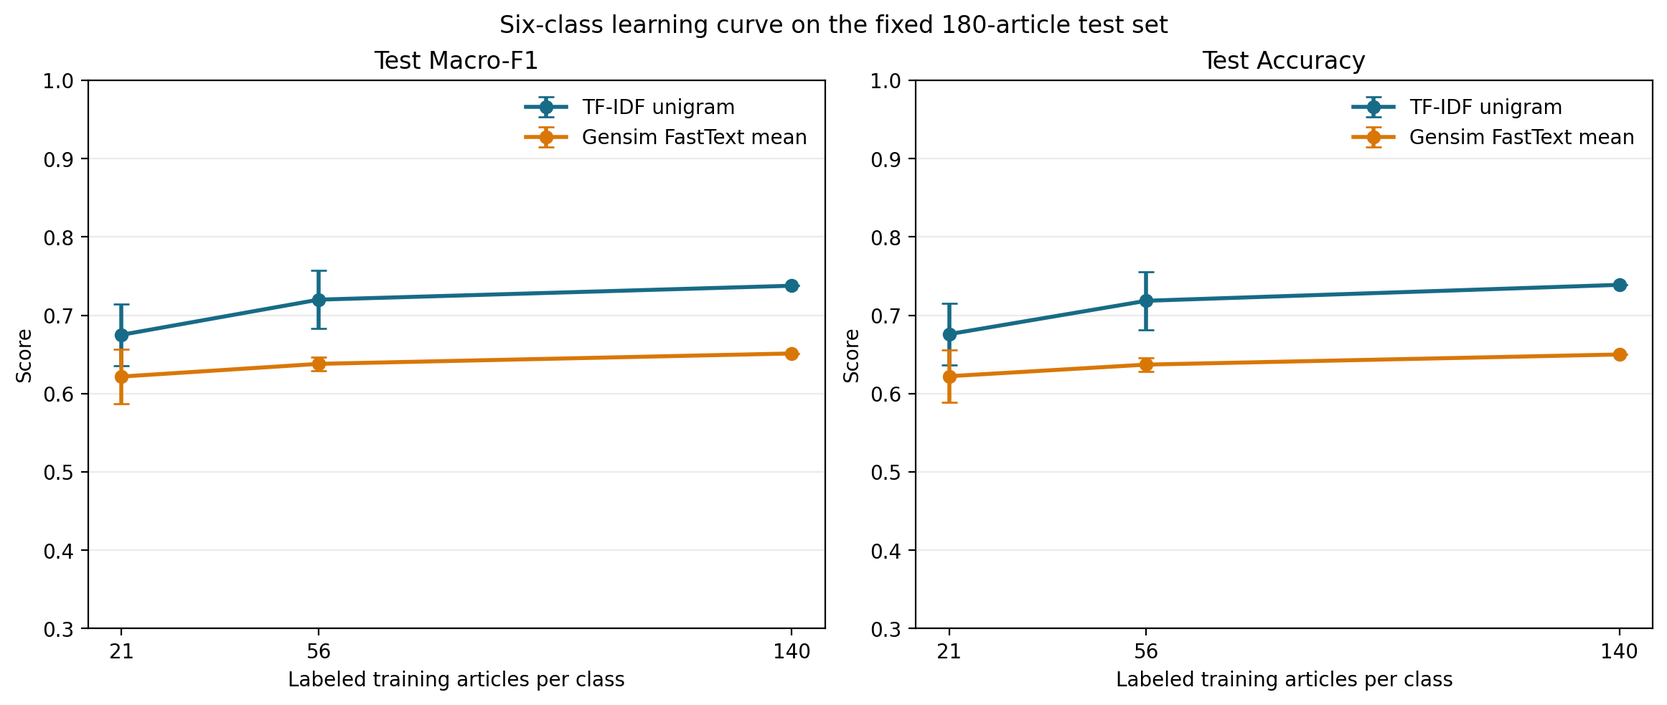
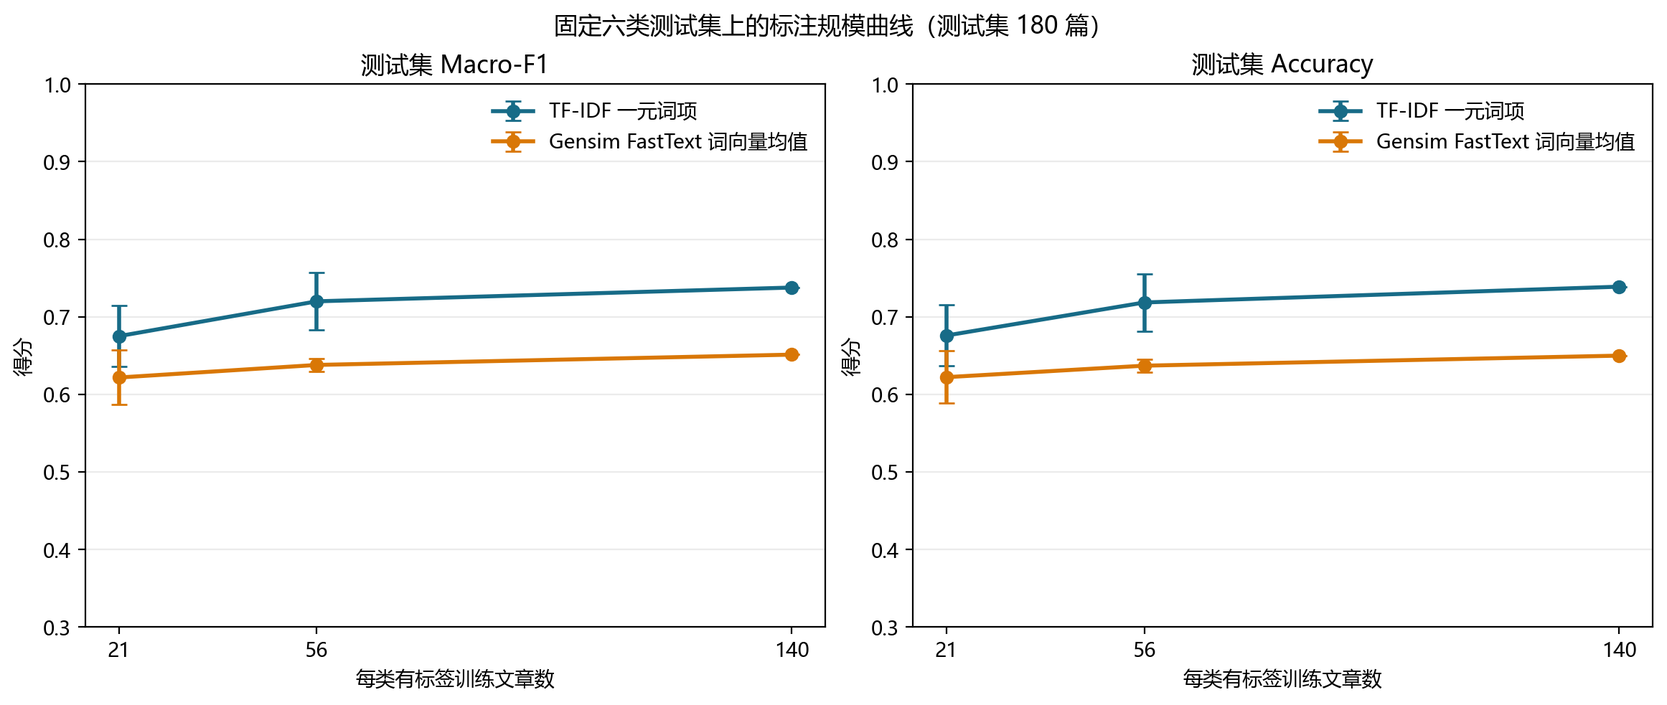
Rewrite FastText report with coverage and classification analysis

diff --git a/run_learning_curve.py b/run_learning_curve.py
@@ -230,20 +230,35 @@ def run_model(
 
 
 def make_figure(summary_rows: list[dict[str, Any]]) -> None:
+    from matplotlib import font_manager
     import matplotlib.pyplot as plt
-    import numpy as np
+
+    available_fonts = {font.name for font in font_manager.fontManager.ttflist}
+    font_families = (
+        "Microsoft YaHei",
+        "SimHei",
+        "SimSun",
+        "Noto Sans CJK SC",
+        "Source Han Sans SC",
+        "WenQuanYi Micro Hei",
+    )
+    for family in font_families:
+        if family in available_fonts:
+            plt.rcParams["font.sans-serif"] = [family]
+            break
+    plt.rcParams["axes.unicode_minus"] = False
 
     figure, axes = plt.subplots(1, 2, figsize=(11.5, 4.8), constrained_layout=True)
     method_names = {
-        "tfidf_unigram": "TF-IDF unigram",
-        "gensim_fasttext_mean": "Gensim FastText mean",
+        "tfidf_unigram": "TF-IDF 一元词项",
+        "gensim_fasttext_mean": "Gensim FastText 词向量均值",
     }
     method_colors = {"tfidf_unigram": "#176B87", "gensim_fasttext_mean": "#D97706"}
     fractions = [0.15, 0.40, 1.00]
     per_class = [TRAIN_PER_CLASS[fraction] for fraction in fractions]
     for axis, metric, title in (
-        (axes[0], "macro_f1", "Test Macro-F1"),
-        (axes[1], "accuracy", "Test Accuracy"),
+        (axes[0], "macro_f1", "测试集 Macro-F1"),
+        (axes[1], "accuracy", "测试集 Accuracy"),
     ):
         for method in method_names:
             rows = [row for row in summary_rows if row["feature_method"] == method]
@@ -255,13 +270,13 @@ def make_figure(summary_rows: list[dict[str, Any]]) -> None:
                 label=method_names[method], color=method_colors[method],
             )
         axis.set_title(title)
-        axis.set_xlabel("Labeled training articles per class")
-        axis.set_ylabel("Score")
+        axis.set_xlabel("每类有标签训练文章数")
+        axis.set_ylabel("得分")
         axis.set_xticks(per_class, [str(value) for value in per_class])
         axis.set_ylim(0.30, 1.00)
         axis.grid(axis="y", alpha=0.25)
         axis.legend(frameon=False)
-    figure.suptitle("Six-class learning curve on the fixed 180-article test set")
+    figure.suptitle("固定六类测试集上的标注规模曲线（测试集 180 篇）")
     path = RESULTS / "learning_curve_tfidf_vs_gensim_fasttext.png"
     figure.savefig(path, dpi=200, bbox_inches="tight")
     plt.close(figure)

diff --git a/实验报告.md b/实验报告.md
@@ -1,26 +1,28 @@
-# Gensim 新闻表示学习与 fastText 文本分类实验
+# 外部子词词向量能否提升小样本新闻分类？——基于 Gensim FastText 的弱标签实验
 
-本次实验用 LR-Sum 简体中文新闻正文训练 Gensim Word2Vec 和 FastText，并用教师提供的 1998 年上半年新闻文本构造固定弱标签样本，完成 2、4、6 类正文分类。比较方法包括 TF-IDF、两种冻结 Gensim 向量均值，以及官方 fastText 的随机和预训练初始化。每类从有效候选中按固定哈希顺序选取 200 篇，拆分为 140/30/30。六类测试中，官方 fastText 预训练初始化的 Accuracy / Macro-F1 为 **0.7611 / 0.7627**，随机初始化为 **0.7444 / 0.7428**。另在六类固定拆分上，以三个分层抽样种子比较 TF-IDF 与冻结 Gensim FastText 均值特征的标注训练规模曲线。上述分数描述当前固定弱标签实验，不能据此断言一种初始化或特征方法普遍更好。
+## 摘要
 
-本次实验的代码及相关说明可在该仓库中获取：[LLMandAppliedPractices-Gensim-FastText](https://github.com/stq1234/LLMandAppliedPractices-Gensim-FastText)。仓库保存本次使用的来源文本、固定样本、脚本、模型、预测记录、审计结果、图表和报告。
+本实验考察：在少量标注的新闻分类任务中，使用外部无标签语料训练的 Gensim FastText 子词表示，能否将更广的词表外覆盖转化为分类收益。词向量仅在 LR-Sum 简体中文训练语料上训练；分类语料为 1998 年上半年的课程新闻语料，类别由标题关键词规则产生。比较 TF-IDF、冻结 Word2Vec/FastText 向量均值，以及官方 fastText 随机或预训练初始化后的监督分类。六类训练正文中，Gensim 显式词表覆盖 25.19% 的词类型和 78.54% 的词频；但六类测试 Macro-F1 中，冻结 FastText 均值为 0.6513，低于 Word2Vec 均值的 0.6749 和 TF-IDF 的 0.7378。固定测试集上的三种训练子集抽样显示，TF-IDF 的 Macro-F1 从每类 21 篇时的 0.6751 升至 140 篇时的 0.7378，FastText 均值从 0.6218 升至 0.6513。官方 fastText 预训练初始化在六类任务达到 0.7627，但相对随机初始化的收益随类别任务而变。结果表明，可为表外词生成向量并不等同于获得适合分类的语义特征；本实验结论适用于当前标题关键词弱标签及固定测试样本。
 
-## 1. 数据来源、清理与样本构造
+## 1. 研究问题与动机
 
-### 1.1 词向量训练语料
+传统词向量通常为显式词表中的每个词保存独立表示，未见词无法直接查表。FastText 以字符 n-gram 组合词表示，使训练中未出现的词也可能通过已学习的子词向量得到表示 [2, 4]。这一机制解决的是向量可查询性；在下游分类中，子词片段是否携带与目标标签相关的信息，还取决于预训练语料、分词方式、文档表示和分类目标。
 
-表示学习使用 BLT Lab 的 [LR-Sum 数据集](https://huggingface.co/datasets/bltlab/lr-sum)，取简体中文 `cmn_s` 配置的 `train` split，固定 revision 为 `deb2e73ce53e42ceda31297a991afa138ee665a8`。原始 Parquet 有 483 篇记录；正文经 Unicode NFKC 规范化、控制字符清理、空白规整和正文指纹去重后，保留 **482 篇、359,302 个 jieba token**。模型仅读取正文 `text`，不使用标题、摘要、URL、数据集标签或验证/测试 split。
+本实验围绕一个问题展开：在每类只有 21–140 篇有标签训练文章的条件下，LR-Sum 上训练的 Gensim FastText 是否优于词级 Word2Vec 及 TF-IDF？同时，将冻结词向量均值与以同一词向量初始化、再由标签监督训练的官方 fastText 区分开来。前者检验固定外部表示作为文档特征的表现；后者检验包含监督参数更新和词 bigram 的分类器在本数据上的结果。两者结构不同，差异不能单独归因于预训练初始化。
 
-数据集卡标注 [CC BY 4.0](https://creativecommons.org/licenses/by/4.0/)。本实验对正文执行了规范化、去重和分词处理。数据集归属 LR-Sum / BLT Lab；相关论文为 Palen-Michel 与 Lignos（2023）的 [LR-Sum: Summarization for Less-Resourced Languages](https://aclanthology.org/2023.findings-acl.427/)。原文件来源、固定摘要、许可和处理说明见 `data/SOURCE.md`。
+## 2. 数据与标签构造
 
-### 1.2 1998 年上半年教师语料
+### 2.1 外部表示学习语料
 
-分类语料来自用户提供的 `1998-上半年-带音(1).rar`，包含 1998 年 1—6 月六个文本文件。仓库保存从该 RAR 提取的文本归档 `data/source/teacher_1998_h1_gb18030.tar.xz`，并记录原始压缩包与各成员的 SHA-256，供复现时校验。文本记录 ID 采用 `YYYYMMDD-page-article-segment` 格式。逐条记录均以 GB18030 严格解码；不替换乱码字节，也不把它们映射为未知词。5 条无法解码记录涉及 `19980323-09-005`、`19980430-03-005`、`19980507-04-007` 三篇文章，因此整篇排除。各错误行的文件、行号、字节偏移、记录 ID 与错误字节见 `data/teacher_decode_errors.csv`。
+词向量训练数据取自 LR-Sum 的简体中文 `cmn_s` 配置，仅使用 `train` split 的正文 `text`。LR-Sum 是面向多种语言摘要研究的新闻数据集 [1]。原始 483 篇记录经 Unicode 规范化、正文清理和重复文本去重后保留 482 篇，共 359,302 个 jieba 分词 token。训练过程不读取标题、摘要、数据集标签或验证、测试分片。来源数据采用 CC BY 4.0 许可。
 
-解析得到 **18,631 个文章 ID 组**。同一 ID 下正文相同的重复记录共去除 6 行；有一个段号 `19980127-09-001-032` 出现不同正文，按规则整篇排除并将冲突摘要写入 `data/teacher_conflicting_records.csv`。随后剔除 1 篇缺少标题段的文章、1,864 篇空正文，并在拆分前去除 40 篇规范化后与先前文章正文相同的重复文章，剩余 **16,722 篇有效且正文唯一的文章**。处理去掉了 95,058 个拼音花括号注音和纯标点 token，保留源文件已有的词边界；标题只用于弱标签，正文分段按段号顺序连接。数据及来源核验细节见 `data/corpus_stats.json` 和 `data/SOURCE.md`。
+### 2.2 分类语料与弱标签
 
-标签不是人工标注的主题金标准，而是由标题段精确命中 `data/selection_rules.json` 中的分类关键词生成。单篇标题可命中同类多个词，但命中多个类别时排除；正文少于 80 个源词的文章也排除。类别候选数如下，最少的体育类仍有 277 篇，因此能按预定数量选取 200 篇，而不需要缩小目标样本数。
+分类文章来自课程提供的 1998 年 1–6 月《人民日报》新闻语料。文本按 GB18030 严格解码，依文章 ID 合并段落并清理正文；解码失败、正文缺失、重复或记录冲突的文章按既定规则排除，最终得到 16,722 篇正文唯一的有效文章。
 
-| 类别 | 有效候选 | 选取 | 训练 | 验证 | 测试 |
+标题按预先设定的关键词表生成六类弱标签：体育、经济、文化、国际、政治和社会。标题未命中类别、命中多个类别，或正文短于 80 个源词的文章不进入候选集。每类候选中按固定哈希顺序各取 200 篇，再按类别拆分为训练 140 篇、验证 30 篇、测试 30 篇。表 1 给出各类候选与样本规模；图 1 展示总体筛选及六类拆分。
+
+| 类别 | 单类关键词候选 | 选取 | 训练 | 验证 | 测试 |
 |---|---:|---:|---:|---:|---:|
 | 体育 | 277 | 200 | 140 | 30 | 30 |
 | 经济 | 1,132 | 200 | 140 | 30 | 30 |
@@ -29,134 +31,104 @@
 | 政治 | 556 | 200 | 140 | 30 | 30 |
 | 社会 | 797 | 200 | 140 | 30 | 30 |
 
-选样及拆分通过独立的固定盐值 SHA-256 排序，结果保存为 `data/frozen_split.csv`。2 类任务取体育、经济；4 类加入文化、国际；6 类再加入政治、社会，三项任务使用嵌套样本，训练/验证/测试总数分别为 280/60/60、560/120/120、840/180/180。分类器输入标题之外的正文前 500 个源词；同一正文指纹不会跨越训练、验证与测试集。弱标签规则、关键词命中和每篇筛选状态保存在候选表与筛选审计表中，便于复查。
+**表 1.** 六类弱标签候选及固定样本划分。候选数是标题命中恰好一个类别关键词组、且正文满足长度要求的文章数。
 
 ![教师语料筛选规模与六类固定样本拆分](results/data_split_counts.png)
 
-图 1：左图展示文章 ID 组、通过严格解码与正文去重的文章、单类别关键词候选和最终选样数；右图展示六类各 200 篇样本的 140/30/30 拆分。类别平衡由选样过程建立，不代表原始语料中的类别比例。
+**图 1.** 左图为文章 ID 组、有效且去重后的文章、单类关键词候选及最终选样规模；右图为六类各 200 篇样本的训练、验证与测试数量。类别平衡来自选样规则，不代表原始新闻语料的类别比例。
 
-### 1.3 语料隔离
+2、4、6 类任务分别使用体育和经济，加入文化和国际，再加入政治和社会，形成嵌套分类任务。分类器只读取正文前 500 个源词，不输入标题。测试集中 173/180 篇正文含有其标签对应的至少一个标题关键词；训练集和验证集相应比例分别为 798/840 和 172/180。此重合反映了弱标签规则与分类输入之间的直接词面线索，后续分数应按这一标签构造理解。
 
-Gensim 表示学习仅使用 LR-Sum 正文，教师语料只用于分类和来源交叉核查。规范化后，LR-Sum 正文与所有有效教师正文之间的全文匹配及前 200 字符前缀匹配均为 0；验证/测试文章的这两类匹配也均为 0。这个检查针对字符完全相同或前缀相同，不排除语义近重复。分类语料沿用源文件的分词边界，LR-Sum 使用 jieba 分词；两个来源的领域与年代也不同，因此嵌入词表覆盖率是解释结果时的重要背景。
+## 3. 方法与实验设置
 
-## 2. 表示学习和分类方法
+### 3.1 词表示
 
-### 2.1 Gensim 表示学习
+Word2Vec 与 Gensim FastText 均采用 Skip-gram、100 维向量、窗口 5、`min_count=3`、10 轮训练、单 worker 和随机种子 42。FastText 使用长度 2–4 的字符 n-gram 和 100,000 个哈希桶。两个模型均在上述 LR-Sum 正文上训练。FastText 对显式词表外的词，可根据其字符 n-gram 生成向量；该机制保证的是可能得到一个数值表示，不是该表示对当前分类标签有效 [2, 4]。
 
-Word2Vec 和 Gensim FastText 都使用 Skip-gram、100 维向量、窗口 5、`min_count=3`、10 轮、单 worker 和随机种子 42。FastText 使用长度 2—4 的字符 n-gram 和 100,000 个哈希桶。两个模型均有 **11,171 个显式词项**。本次分类刷新复用了与 LR-Sum 来源摘要及训练参数核验一致的模型检查点，没有重新训练词向量。
+### 3.2 分类方法
 
-### 2.2 五种监督方法
-
-| 方法 | 特征和训练方式 |
+| 方法 | 文档特征与分类训练 |
 |---|---|
-| TF-IDF + LR | unigram、sublinear TF-IDF，训练逻辑回归 |
-| Word2Vec mean + LR | 对正文词向量取均值，StandardScaler 只在训练集拟合，再训练逻辑回归 |
-| Gensim FastText mean + LR | 对正文词向量取均值，表外词可通过字符 n-gram 合成向量，再使用相同逻辑回归流程 |
-| 官方 fastText，随机初始化 | `fasttext.train_supervised` 联合训练文本表示和标签分类器 |
-| 官方 fastText，预训练初始化 | 使用 Gensim FastText 导出的训练词表 `.vec` 初始化，再进行相同监督训练 |
+| TF-IDF + LR | 正文 unigram、sublinear TF-IDF；训练逻辑回归。 |
+| Word2Vec 均值 + LR | 正文词向量逐词求均值；仅在训练集拟合 StandardScaler，再训练逻辑回归。 |
+| Gensim FastText 均值 + LR | 同样对词向量取均值并使用训练集拟合的 StandardScaler 与逻辑回归；可为部分表外词生成向量。 |
+| 官方 fastText，随机初始化 | `train_supervised` 训练 softmax 分类器及文本表示，使用词 unigram 与 bigram。 |
+| 官方 fastText，预训练初始化 | 用 Gensim FastText 导出的显式词向量初始化，再用相同监督设置更新分类器和表示。 |
 
-逻辑回归使用 `C=1`、`max_iter=2000`。官方 fastText 使用 softmax、100 维、学习率 0.5、`wordNgrams=2`、`minn=maxn=0`、单线程、bucket 100,000、seed 42。监督分类开启词 bigram，但关闭字符子词；这与 Gensim FastText 训练阶段的字符 n-gram 不是同一特征。预训练 `.vec` 仅导出六类训练正文词表与 Gensim FastText 显式词表的交集，共 **5,950 词**，不含词表外向量、验证/测试专有词或字符桶参数；导出的初始向量仍会在监督训练中更新。
+两种均值特征的逻辑回归使用 `C=1`、`max_iter=2000`。官方 fastText 使用 100 维表示、学习率 0.5、`wordNgrams=2`，关闭字符 n-gram，并使用单线程、随机种子 42。预训练 `.vec` 包含六类完整训练正文词表与 Gensim 显式词表的交集，共 5,950 个词；不含合成的表外向量。该共享导出文件用于 2、4、6 类任务，因此较小任务可读取来自其他类别六类训练文章的词项向量，但不含验证或测试文本词项。fastText 监督分类采用词与 n-gram 特征的线性分类框架 [3]。
 
-在六类监督训练正文中共有 23,617 个不同词、251,003 次词出现。两个 Gensim 显式词表覆盖 5,950 种词、197,143 次出现，类型覆盖率为 **25.19%**，词频加权覆盖率为 **78.54%**。这个数只衡量显式词表覆盖；Gensim FastText 可为部分表外词合成向量。由于源语料分词体系与年代、主题不同，覆盖率不能单独说明向量的分类价值。
+### 3.3 评价设计
 
-供三个任务共用的 `.vec` 是根据**六类任务的全局训练正文词表**一次性导出，而非为 2、4、6 类分别导出。因此，2 类或 4 类使用的共享初始化文件可能含有该子任务训练子集之外、但属于六类全局训练集的词项；不含任何验证集或测试集专有词。这是共享表示词表的比较设定，解释子任务初始化时应保留这一点。
+主实验在每类 140/30/30 的训练、验证、测试划分上评估 2、4、6 类任务。指标为 Accuracy 和 Macro-F1；Macro-F1 对类别等权。官方 fastText 的训练轮数在 25、100、250 中按验证集 Macro-F1 选择，平局取较小值。两种初始化在 2 类任务选择 25 轮，在 4 类和 6 类任务选择 100 轮。每个主实验任务使用一个固定拆分。
 
-### 2.3 官方 fastText 选轮数
+学习曲线只比较 TF-IDF unigram 与冻结 Gensim FastText 均值特征。六类训练集中的 140 篇/类在三个抽样种子（17、29、43）下分别抽样，取每类 21、56、140 篇，即总训练量 126、336、840 篇；每次都在同一组 180 篇测试文章上评价。汇总值为三个抽样结果的均值和样本标准差。100% 条件的三次运行使用相同 840 篇训练文章，因此该处标准差为零，并非三份独立全量样本。
 
-每个任务和两种初始化均比较预设的 25、100、250 epoch。只按验证集 Macro-F1 选取，平局取较小轮数；测试集没有用于选参。18 条候选结果见 `results/fasttext_validation_curve.csv`。
+实现版本为 Python 3.12.7、Gensim 4.3.3、fasttext-wheel 0.9.2、NumPy 1.26.4 和 scikit-learn 1.5.1。
 
-| 类别数 | 随机初始化 epoch | 验证 Macro-F1 | 预训练初始化 epoch | 验证 Macro-F1 |
-|---:|---:|---:|---:|---:|
-| 2 | 25 | 0.9833 | 25 | 0.9666 |
-| 4 | 100 | 0.8379 | 100 | 0.8576 |
-| 6 | 100 | 0.7765 | 100 | 0.7639 |
+## 4. 实验结果
 
-2 类的两种初始化在三个候选轮数下各自都出现验证分数平局，故选 25；4 类预训练和 6 类预训练在 100、250 轮时分数相同，故按规则选 100。
+### 4.1 显式词表覆盖与分类表现
 
-## 3. 测试集结果
+六类训练正文共有 23,617 个不同词、251,003 次词出现。Gensim Word2Vec 和 FastText 的显式词表均包含其中 5,950 种词，对应类型覆盖率 25.19%、词频加权覆盖率 78.54%。FastText 的子词机制可为部分词表外词生成表示，但这项覆盖能力没有带来均值分类特征的性能优势。
 
-表中每格为 **Accuracy / Macro-F1**。Accuracy 是样本预测正确比例；Macro-F1 对每类 F1 等权平均。2、4、6 类任务的测试样本数依次为 60、120、180 篇。
+表 2 汇总三个测试集的结果，图 2 展示各任务中两项指标的变化。六类任务中，Gensim FastText 均值的 Macro-F1 为 0.6513，比 Word2Vec 均值低 0.0236、比 TF-IDF 低 0.0865。官方 fastText 预训练初始化在六类达到 0.7627，随机初始化为 0.7428；但预训练初始化在四类任务略低于随机初始化（0.8418 对 0.8510）。因此，这组结果不支持“预训练初始化在各类数设置下都更好”的结论。
 
-| 方法 | 2 类 | 4 类 | 6 类 |
-|---|---|---|---|
+| 方法 | 2 类 Accuracy / Macro-F1 | 4 类 Accuracy / Macro-F1 | 6 类 Accuracy / Macro-F1 |
+|---|---:|---:|---:|
 | TF-IDF + LR | 0.9333 / 0.9330 | 0.8500 / 0.8491 | 0.7389 / 0.7378 |
-| Word2Vec mean + LR | 0.8833 / 0.8833 | 0.7250 / 0.7250 | 0.6722 / 0.6749 |
-| Gensim FastText mean + LR | 0.9333 / 0.9333 | 0.7750 / 0.7753 | 0.6500 / 0.6513 |
+| Word2Vec 均值 + LR | 0.8833 / 0.8833 | 0.7250 / 0.7250 | 0.6722 / 0.6749 |
+| Gensim FastText 均值 + LR | 0.9333 / 0.9333 | 0.7750 / 0.7753 | 0.6500 / 0.6513 |
 | 官方 fastText，随机初始化 | 0.9667 / 0.9666 | 0.8500 / 0.8510 | 0.7444 / 0.7428 |
 | 官方 fastText，预训练初始化 | 1.0000 / 1.0000 | 0.8417 / 0.8418 | 0.7611 / 0.7627 |
 
+**表 2.** 固定测试集上的 Accuracy 与 Macro-F1。测试样本数依次为 60、120、180 篇。
+
 ![各分类方法测试集 Accuracy 与 Macro-F1](results/classification_comparison.png)
 
-图 2：对三个嵌套分类任务，展示按验证集选定 epoch 后各方法的测试集 Macro-F1 与 Accuracy。柱值来自保存的逐篇预测。
+**图 2.** 2、4、6 类任务中，各方法按验证集选轮数后在测试集上的 Macro-F1 与 Accuracy。两项指标均由保存的逐篇预测计算。
 
-从该固定拆分看，2 类预训练初始化 60 篇全部预测正确；4 类随机初始化略高于预训练初始化；6 类预训练初始化的 Macro-F1 比随机初始化高约 0.0199。Gensim 均值方法在六类任务上低于 TF-IDF。官方 fastText 使用监督更新并加入词 bigram，因此它与冻结词向量均值分类器之间同时存在特征表示和训练目标差异，不能把分数差异归因于单一因素。预训练初始化的表现随任务类别数而变，当前结果不支持笼统地说预训练必然优于或劣于随机初始化。
+官方 fastText 预训练初始化在二类测试集的 60 篇文章上全数正确；四类任务中随机初始化略高，六类任务中预训练初始化高约 0.0199 Macro-F1。类别任务的样本数与类别组成也随设置改变，因而三项结果反映的是嵌套任务上的整体表现，不能视为只改变类别数的严格因果对照。官方 fastText 与冻结均值方法的训练目标、特征和更新方式不同，二者分数差异也不能归结为字符子词这一项因素。
 
-### 3.1 标注训练规模对照
+### 4.2 标注训练规模
 
-为观察同一弱标签任务对标注样本量的敏感程度，使用六类任务的既有训练拆分和**同一组 180 篇固定测试文章**。每个类别在训练集中的 140 篇文章按三个抽样种子（17、29、43）分别随机排序，取前 21、56 或 140 篇，形成每类 15%、40% 和 100% 的嵌套分层样本；总训练量分别为 126、336 和 840 篇。小样本只从原训练集抽取，测试样本不变，验证集不参与训练或选参。两种特征使用同一 Logistic Regression（`C=1`、`max_iter=2000`、`random_state=42`），不针对训练量另行调参。
+图 3 和表 3 展示固定测试集上的学习曲线。三个训练规模下，TF-IDF 的 Macro-F1 均高于 Gensim FastText 均值；从每类 21 篇增至 140 篇时，TF-IDF 均值增加 0.0627，FastText 均值增加 0.0295。更多标注样本提高了两种方法的平均成绩，但未缩小两者在全量训练条件下的差距。
 
-TF-IDF 使用原分类基线的一元词项和 sublinear TF。向量方法使用已保存的 Gensim FastText 100 维检查点，对每篇正文的源分词逐词取向量并求均值，再仅以当前抽样训练集拟合 `StandardScaler`。词向量保持冻结；对检查点词表外的词，Gensim FastText 可用字符 n-gram 桶合成向量。LR-Sum 的固定 `train` split（482 篇、359,302 个 jieba token）是不带标签、与教师分类语料分离的预训练来源；它没有使用教师训练、验证或测试文本进行词向量训练。现有审计中的教师语料全文及前 200 字符匹配数均为 0。已有监督 FastText `.vec` 导出按六类完整训练词表筛选，但本次学习曲线直接读取固定 Gensim 检查点，不读取该 `.vec` 文件。
+| 每类训练文章（总量） | TF-IDF Macro-F1 | TF-IDF Accuracy | FastText 均值 Macro-F1 | FastText 均值 Accuracy |
+|---:|---:|---:|---:|---:|
+| 21（126） | 0.6751 ± 0.0392 | 0.6759 ± 0.0394 | 0.6218 ± 0.0352 | 0.6222 ± 0.0338 |
+| 56（336） | 0.7200 ± 0.0373 | 0.7185 ± 0.0370 | 0.6380 ± 0.0086 | 0.6370 ± 0.0085 |
+| 140（840） | 0.7378 ± 0.0000 | 0.7389 ± 0.0000 | 0.6513 ± 0.0000 | 0.6500 ± 0.0000 |
 
-表中为三个抽样种子的测试集均值及样本标准差（`mean ± SD`）。完整 100% 训练集在三个种子下是同一组 840 篇文章，因此指标标准差为 0，不能视为三份独立全量样本。耗时统计单次特征构造、训练集缩放（向量均值方法）、分类器拟合和固定测试集预测；不包括一次性加载检查点（0.23 秒）、此前训练 FastText 检查点的 374.46 秒（第 6 节记录）以及文件写入和绘图。
-
-| 每类训练文章（比例） | 特征方法 | 测试 Macro-F1（均值 ± SD） | 测试 Accuracy（均值 ± SD） | 单次流水线秒数（均值 ± SD） |
-|---:|---|---:|---:|---:|
-| 21（15%） | TF-IDF unigram | 0.6751 ± 0.0392 | 0.6759 ± 0.0394 | 0.09 ± 0.04 |
-| 21（15%） | Gensim FastText 向量均值 | 0.6218 ± 0.0352 | 0.6222 ± 0.0338 | 0.24 ± 0.01 |
-| 56（40%） | TF-IDF unigram | 0.7200 ± 0.0373 | 0.7185 ± 0.0370 | 0.15 ± 0.01 |
-| 56（40%） | Gensim FastText 向量均值 | 0.6380 ± 0.0086 | 0.6370 ± 0.0085 | 0.39 ± 0.01 |
-| 140（100%） | TF-IDF unigram | 0.7378 ± 0.0000 | 0.7389 ± 0.0000 | 0.32 ± 0.03 |
-| 140（100%） | Gensim FastText 向量均值 | 0.6513 ± 0.0000 | 0.6500 ± 0.0000 | 0.77 ± 0.02 |
+**表 3.** 三个训练子集种子上的测试指标均值 ± 样本标准差；测试集始终为同一组 180 篇文章。
 
 ![六类固定测试集上的标注规模曲线](results/learning_curve_tfidf_vs_gensim_fasttext.png)
 
-图 3：测试 Macro-F1 与 Accuracy 的种子均值；误差线为三个训练子集的样本标准差。横轴是每类有标签训练文章数，固定测试集为每类 30 篇。
+**图 3.** 每类训练文章数与测试 Macro-F1、Accuracy。误差线表示三个训练子集抽样结果的样本标准差；全量训练条件使用同一训练集，故标准差为零。
 
-在本次固定测试集上，TF-IDF 的 Macro-F1 在三种训练规模的三个抽样种子中都高于向量均值特征。两种方法从 15% 增至 40% 时均值均上升；40% 到 100% 时，TF-IDF 均值继续上升，而 FastText 均值也有上升但幅度较小。该结果只描述这六类标题关键词弱标签和单一固定测试集，不能推广到人工金标准或其他语料。每个预测样本、训练子集成员、逐次指标与耗时分别保存在 `results/learning_curve_predictions.csv`、`results/learning_curve_samples.csv` 和 `results/learning_curve_metrics.csv`；按规模汇总的均值与标准差在 `results/learning_curve_summary.csv`。元数据记录拆分、检查点和来源摘要及一致性检查。100% 条件下的结果与原六类 TF-IDF 和 Gensim FastText 均值基线相符。
+### 4.3 错误分布
 
-## 4. 向量诊断与六类错误
-
-### 4.1 近邻和表外词查询
-
-下列近邻来自本次复用的 Gensim 检查点，仅用于观察向量可查询性和分布，不是语义基准测试。
-
-| 查询词 | Word2Vec 示例 | Gensim FastText 示例 |
-|---|---|---|
-| 经济 | 增长 0.6207；复苏 0.6205 | 经济舱 0.8915；经济繁荣 0.8493 |
-| 银行 | 荷兰 0.9107；金属 0.9055 | 投资银行 0.9112；投行 0.8803 |
-| 足球 | 不在显式词表，无法查询 | 可合成向量；近邻含“墨尔本”0.9542 |
-| 文化 | 语言 0.7922；特色 0.7686 | 文化交流 0.8756；语言 0.8378 |
-
-对 `数字农业实验室`、`星际体育学院`、`云端金融平台` 三个不在显式词表的字符串，Gensim FastText 都能由字符 n-gram 合成向量；其近邻分别包括“实验室”0.9427、“商学院”0.9273 和“复航”0.9242。这说明模型能返回表外向量，不等于它能正确理解新词。诸如“经济舱”与“经济”共享字串但语义未必相近，故这些近邻仅是诊断。
-
-### 4.2 六类混淆矩阵
+六类官方 fastText 预训练初始化在 180 篇测试文章中预测正确 137 篇。图 4 的混淆矩阵显示，政治类错误最多：30 篇中错分 11 篇，其中 6 篇被判为国际；经济类有 9 篇错误，主要被判为政治（4 篇）、国际（3 篇）或社会（2 篇）。这些统计反映模型相对标题弱标签的预测差异；类别主题交叉和标题标签规则都可能参与其中。
 
 ![六类官方 fastText 预训练初始化测试混淆矩阵](results/confusion_6class_pretrained.png)
 
-图 4：六类官方 fastText 预训练初始化、按验证集选择的 100 epoch 模型。行表示弱标签，列表示预测；每类 30 篇，共 180 篇，正确 137 篇、错误 43 篇。
+**图 4.** 六类官方 fastText 预训练初始化、100 epoch 模型的测试集混淆矩阵。行表示标题关键词弱标签，列表示预测类别，每类 30 篇。
 
-混淆矩阵中错误最多的是政治类（11/30），其中 6 篇被预测为国际；经济类有 9 篇错误，主要被预测为政治（3 篇）或社会（4 篇）。这类错误只能表述为相对于标题关键词弱标签的差异：文章标题词未必概括正文主旨，国际、政治、经济、社会等主题也可能共现。预测记录和六类错误清单分别保存在 `results/predictions.csv` 与 `results/errors_6class_pretrained_fasttext.csv`，可按文章 ID 回查。
+## 5. 讨论与结论
 
-## 5. 方法理解与结果边界
+Gensim FastText 的字符 n-gram 机制扩展了可查询词的范围，但本实验中冻结向量均值没有优于 TF-IDF，也没有优于 Word2Vec 均值。模型对词表外字符串确实能生成向量，例如“云端金融平台”的近邻包括“复航”；该例说明共享字符片段足以产生非零相似度，却不能单凭向量可用性确认语义对应。把整篇正文压缩为词向量均值还会丢失词序与局部组合信息，且 LR-Sum 表示学习语料与 1998 年《人民日报》分类语料在来源、年代、分词边界和领域上不同。上述因素与观察到的差距相符，但当前对照没有分离各因素的独立影响。
 
-官方 fastText 监督分类和词 n-gram 特征的方法背景见 Joulin 等人的 [Bag of Tricks for Efficient Text Classification](https://aclanthology.org/E17-2068/)；FastText 子词表示的核心思路见 Bojanowski 等人的 [Enriching Word Vectors with Subword Information](https://aclanthology.org/Q17-1010/)。Gensim FastText 通过共享字符 n-gram 表示，让显式词表外词也能按其字符片段组合得到向量；这提升了向量可用性，但共享片段也可能把语义不同的词联系起来。`min_count` 控制显式词表中的低频词，`min_n/max_n` 控制字符片段长度，`bucket` 控制哈希桶数量及存储规模。100 维、窗口 5、10 轮是本实验的固定设置，未在独立验证任务上证明为最优。
+监督 fastText 的六类 Macro-F1 高于 TF-IDF，而冻结 Gensim FastText 均值低于两者。这些方法不构成对“子词 n-gram 是否有益”的单变量对照：监督模型使用标签训练、词 bigram 和可更新参数；均值分类器的外部向量保持冻结。官方 fastText 的预训练初始化相对随机初始化也随任务变化，说明从外部表示获得的收益取决于当前监督任务和分类训练设定。
 
-官方 fastText 的监督模型则调用 `fasttext.train_supervised`，以词与词 bigram 特征预测标签。本实验将其与 Gensim 初始化向量比较，但 `.vec` 只包含已知整词向量，未迁移 Gensim FastText 的完整字符桶。因此“预训练初始化”特指该有限词表初始化方式。
+标签有效性限制了结果的解释范围。测试正文中 173/180 篇含有标签关键词，表明预测可利用与规则直接相关的词面线索；标题规则又不是人工主题标注。因此，本实验衡量的是六类标题关键词弱标签在当前拆分上的可预测性，而不是对人工主题标准或其他时期新闻的准确率。学习曲线的标准差只描述训练子集变化，同一测试集没有重复抽样。尽管如此，当前实验支持一个清晰判断：子词建模提升了词表外表示的可计算性，但在本任务里，冻结均值表示的覆盖并未转化为更高的分类收益。
 
-本次复核的运行环境为 Gensim 4.3.3。安装源码 `gensim/models/fasttext.py` 中，`FastText` 继承 `Word2Vec`（第 272 行）；`FastTextKeyedVectors.get_vector`（第 1085 行起）对词表内词读取已组合的向量（整词成分与字符 n-gram 贡献），对词表外词将字符 n-gram 哈希到已训练桶并求均值；无法抽取 n-gram 时返回零向量。`FastTextKeyedVectors.__contains__`（第 1027 行起）在字符桶启用时对任意词都返回真，所以判断是否为显式词项须检查 `key_to_index`。本次均值特征按该实现调用 `get_vector`，并统计词表外 token；这和 `fasttext-wheel` 提供的 `fasttext.train_supervised` 分类器是不同模型与 API。结果表中的耗时是本机此固定数据上的完整特征/分类流水线时间，没有据此推算跨实现的速度倍数。
+本次实验的代码及相关说明可在该仓库中获取：[LLMandAppliedPractices-Gensim-FastText](https://github.com/stq1234/LLMandAppliedPractices-Gensim-FastText)。
 
-弱标签由标题中的精确分词关键词确定，正文只负责分类。另对实际分类正文前 500 个源词核查了标题弱标签关键词的词面重合：训练集 798/840 篇（95.0%）、验证集 172/180 篇（95.6%）、测试集 173/180 篇（96.1%）至少出现一个对应关键词。这不是拆分泄漏，因为分类器输入中不含标题；但说明较高分数可能依赖与标题规则直接相关的正文词面线索，不能解读为模型在没有这些词时仍能理解主题。逐篇重合关键词和文章 ID 保存在 `results/weak_label_cue_overlap.json`。标题规则和社会类范围的宽泛性也会产生标签噪声或标题与正文主题不一致的样本；当前指标不是与人工金标准的一致率。原 2/4/6 类主实验每类 200 篇的哈希抽样使用单一拆分，没有多种子重训、人工复核或置信区间。新增学习曲线对训练集抽样做了三种子重复，但仍使用同一个 180 篇测试集；标准差反映训练子集变化，不估计其他语料或测试样本上的不确定性。以上结果不宜推广到人工金标准或其他语料。不同类别主任务为嵌套样本，但总样本量也随类别数增加，所以任务之间不是只改变类别数的严格控制比较。
+## 参考文献
 
-## 6. 复现与结果核验
+[1] Palen-Michel, Chester, and Constantine Lignos. 2023. “LR-Sum: Summarization for Less-Resourced Languages.” *Findings of the Association for Computational Linguistics: ACL 2023*, 6829–6844. [论文与数据说明](https://aclanthology.org/2023.findings-acl.427/)。
 
-环境为 Python 3.12.7、Gensim 4.3.3、fasttext-wheel 0.9.2、NumPy 1.26.4、SciPy 1.13.1、scikit-learn 1.5.1、matplotlib 3.9.2、jieba 0.42.1、PyArrow 22.0.0。仓库根目录可执行：
+[2] Bojanowski, Piotr, Edouard Grave, Armand Joulin, and Tomas Mikolov. 2017. “Enriching Word Vectors with Subword Information.” *Transactions of the Association for Computational Linguistics* 5: 135–146. [论文](https://aclanthology.org/Q17-1010/)。
 
-```powershell
-python -m pip install -r requirements.txt
-python run_experiment.py
-python audit.py
-```
+[3] Joulin, Armand, Edouard Grave, Piotr Bojanowski, and Tomas Mikolov. 2017. “Bag of Tricks for Efficient Text Classification.” In *Proceedings of the 15th Conference of the European Chapter of the Association for Computational Linguistics: Volume 2, Short Papers*, 427–431. [论文](https://aclanthology.org/E17-2068/)。
 
-本次更新在 CPU 上运行，分类阶段线程限制为 1。教师语料重解析约 12.35 秒，LR-Sum 预处理约 41.03 秒，分类候选训练及评估约 276.33 秒；Gensim 检查点被复用，未再次训练。已保存的模型初次训练记录为 Word2Vec 1,126.21 秒、Gensim FastText 374.46 秒，这些不是本次更新的耗时。官方 fastText 六类模型按验证集选定的 100 epoch 结果也一并保存。
-
-运行后的结果一致性审计状态为 **PASS**。审计使用与实验相同的教师语料解析器重建并比对冻结样本，因此它核验的是来源摘要、已保存产物和指标的一致性，并非用另一套解析实现独立验证解析逻辑。审计还从固定 LR-Sum Parquet 重建清洗与分词结果，检查训练/验证/测试正文哈希互斥、与教师正文的来源隔离、词向量检查点参数、`.vec` 范围、18 条验证 epoch 候选，并从 12,000 条逐篇预测重新计算 45 组 train/validation/test 指标及六类混淆矩阵。它也从冻结拆分重新计算标题关键词与正文实际输入的词面重合率，并核对 `results/weak_label_cue_overlap.json` 中的逐类逐篇明细。最终结论仍仅适用于本次固定样本、标题弱标签、实验设定和单次种子。
+[4] Gensim. “FastText Model.” Gensim 4.3 documentation. [API 文档](https://radimrehurek.com/gensim/models/fasttext.html)。
